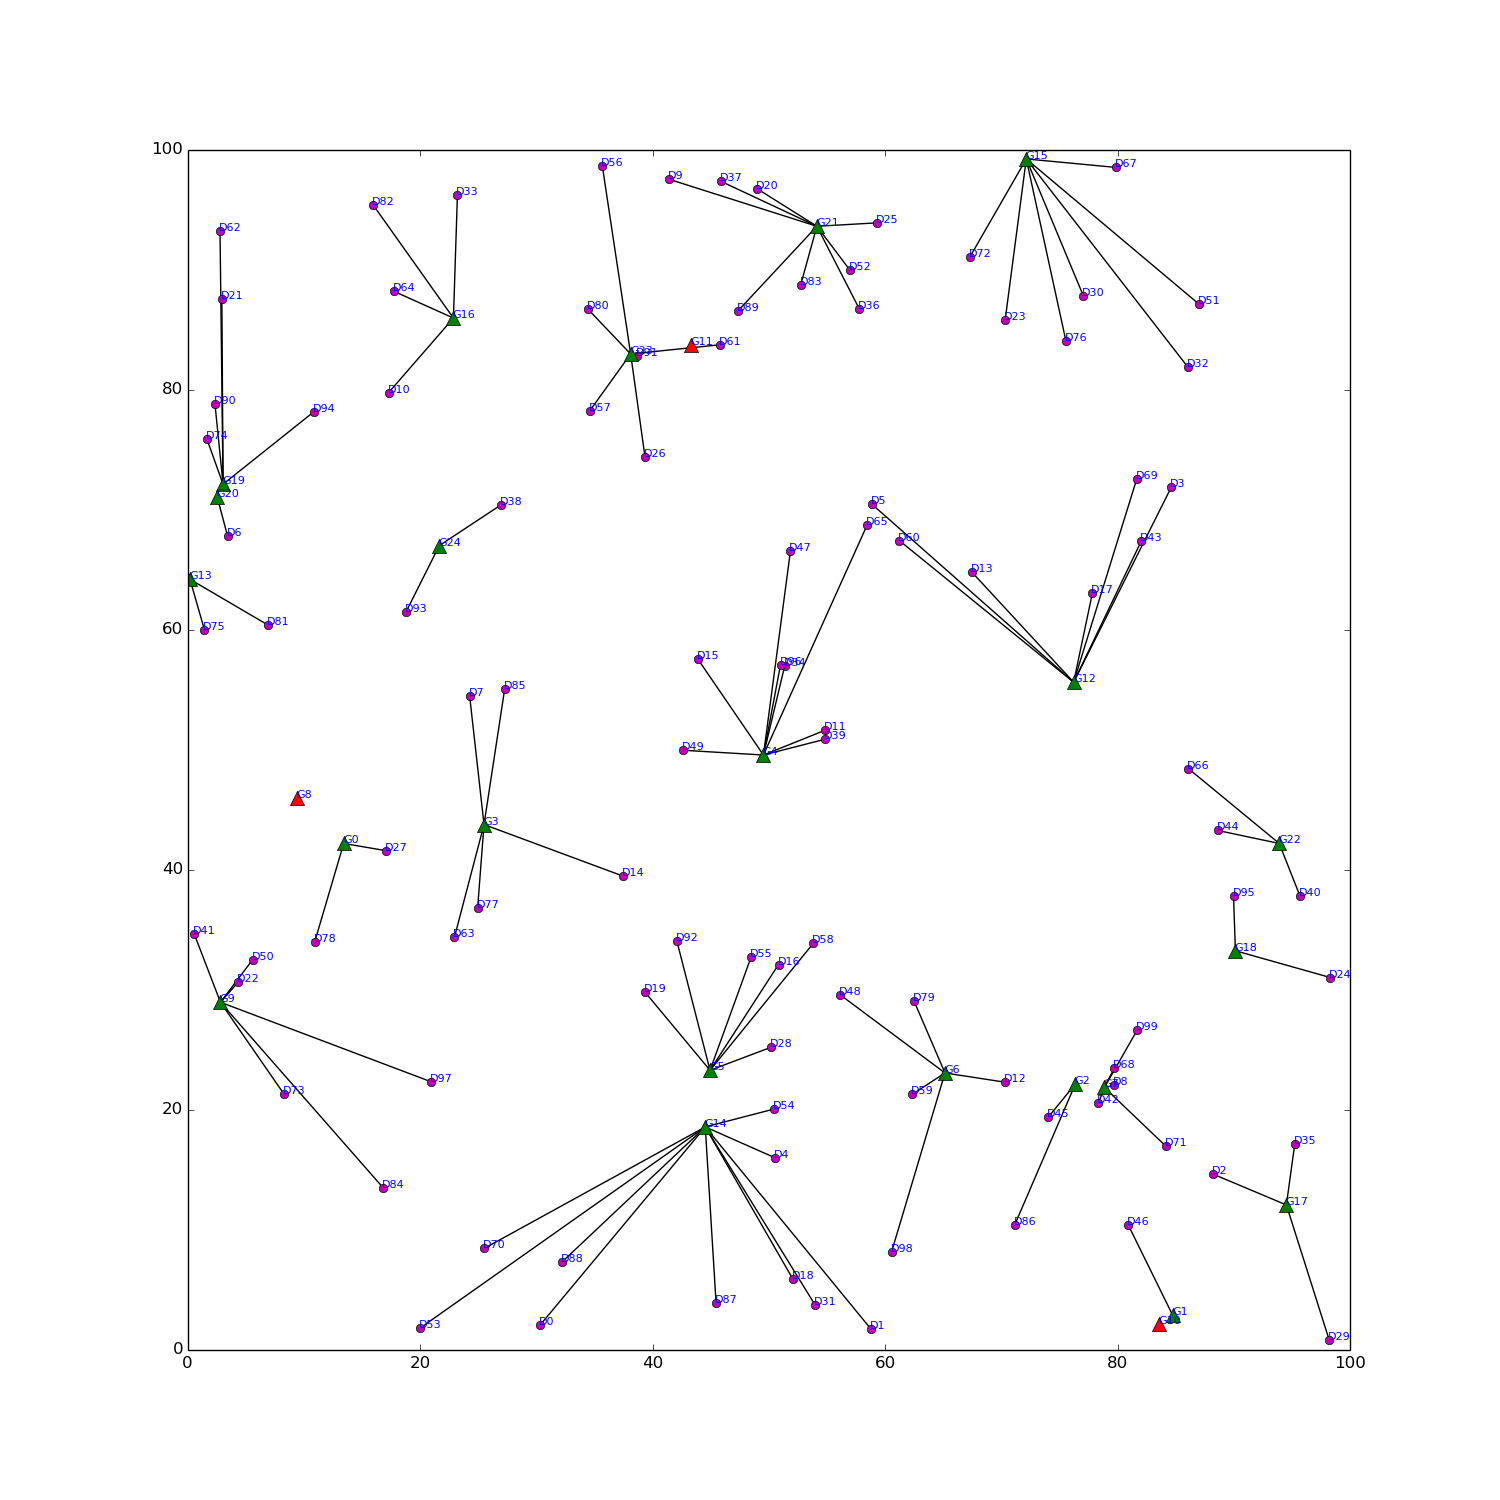
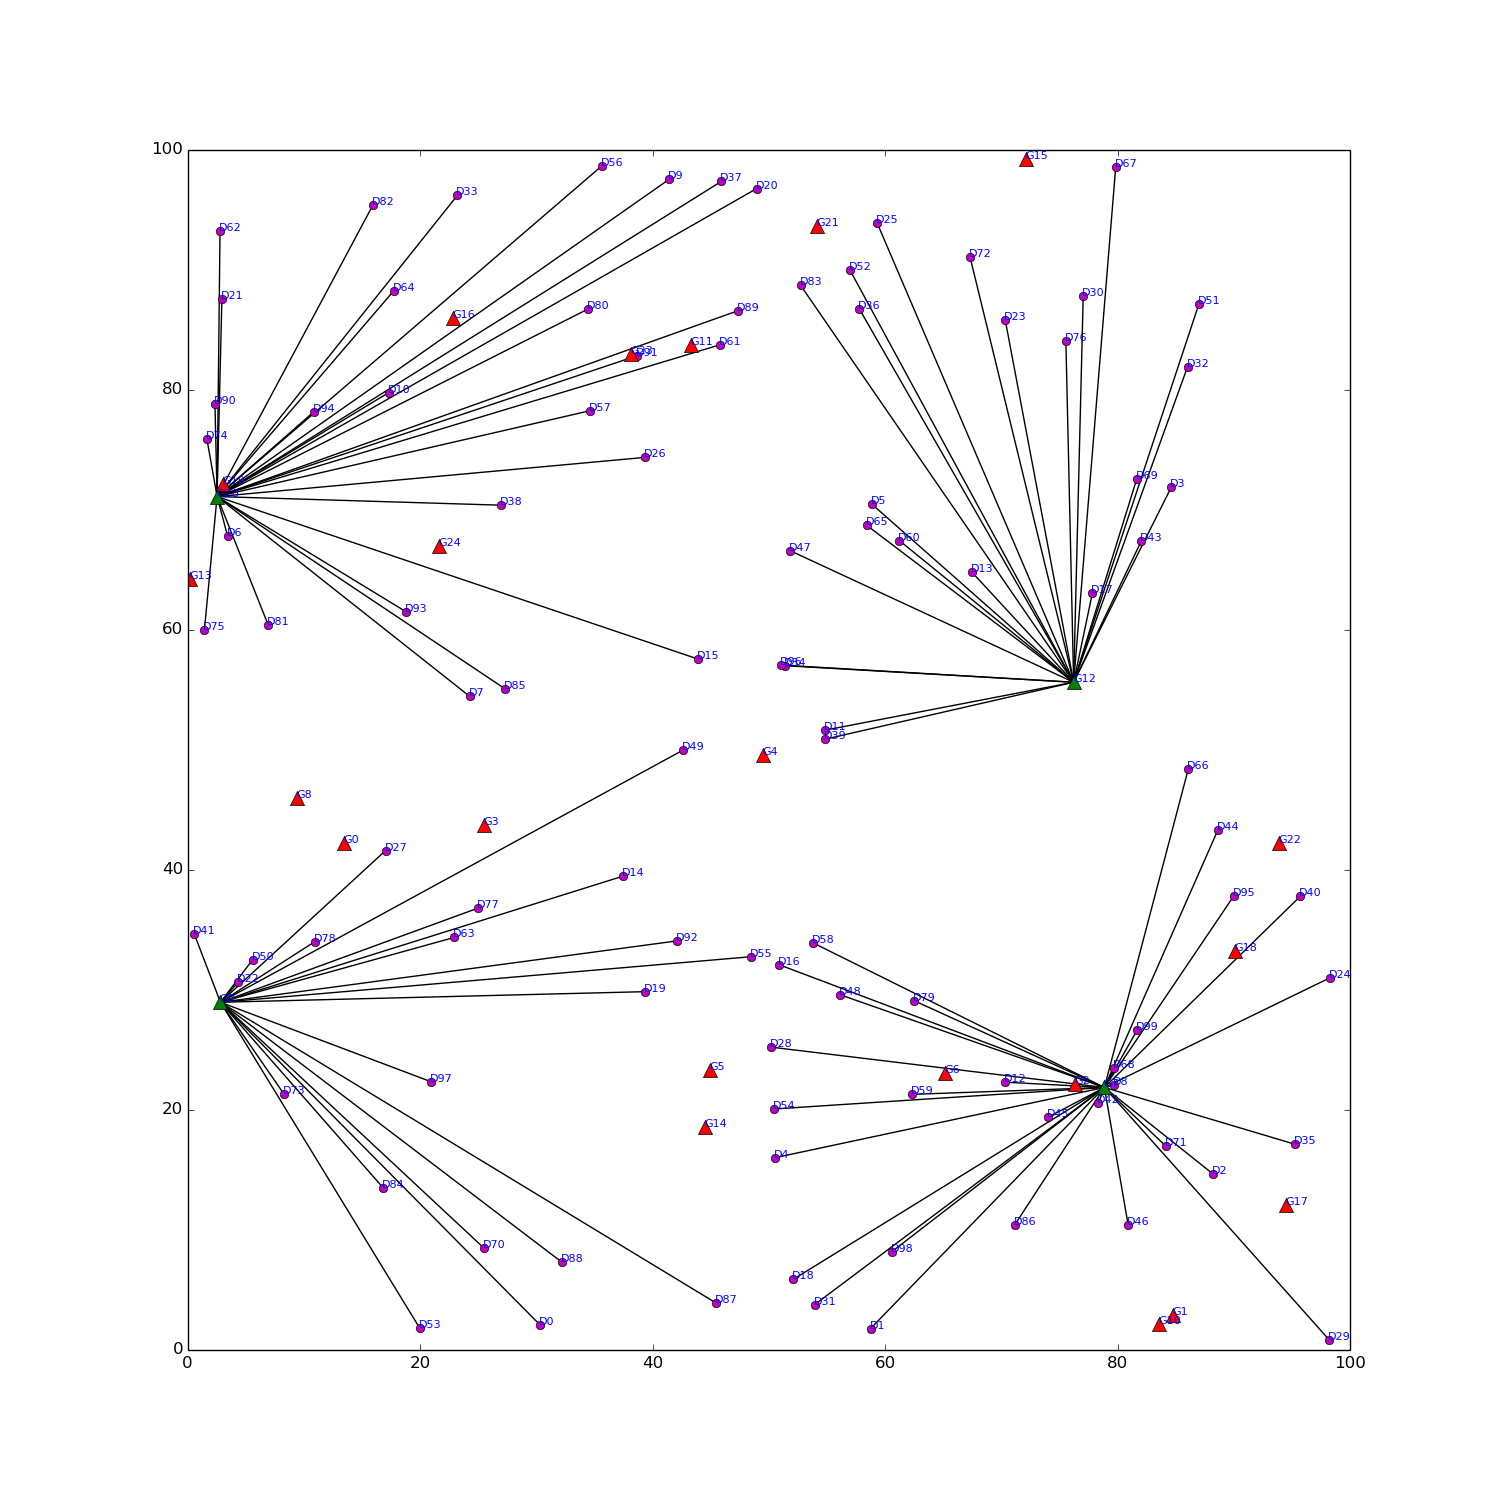
devices connected to generators w lowest cost opening

diff --git a/TP2/local-search/solve.py b/TP2/local-search/solve.py
@@ -47,54 +47,129 @@ class Solve:
                     self.instance.generator_coordinates[j][0],
                     self.instance.generator_coordinates[j][1])
 
+    def getZone(self, id, type):
+        coordinates = (0,0)
+        if type == 1 :
+            coordinates = self.instance.generator_coordinates[id]
+        elif type == 2 :
+            coordinates = self.instance.device_coordinates[id]
+        if (coordinates[0] >= 0 and 
+            coordinates[0] <=  50 and
+            coordinates[1] >= 50 and
+            coordinates[1] <= 100) :
+            return 1
+        elif (coordinates[0] >= 50 and
+        coordinates[0] <=  100 and
+        coordinates[1] >= 50 and
+        coordinates[1] <= 100) :
+            return 2
+        elif (coordinates[0] >= 0 and 
+        coordinates[0] <=  50 and
+        coordinates[1] >= 0 and
+        coordinates[1] <= 100) :
+            return 3
+        elif (coordinates[0] >= 50 and 
+        coordinates[0] <=  100 and
+        coordinates[1] >= 0 and
+        coordinates[1] <= 50) :
+            return 4
+
 
     def solve_localSearch(self):
         print("Solve with a local search algorithm")
-        visited_solutions = []
-
         opened_generators = [0 for _ in range(self.n_generator)]
         generators = list(range(0, self.n_generator))
         assigned_generators = [None for _ in range(self.n_device)]
         costs = {}
         #solution initiale
-        for i in range(self.n_device):
-            assigned_generators[i] = random.randint(0, self.n_generator-1)
+        zone1 = {}
+        zone2 = {}
+        zone3 = {}
+        zone4 = {}
 
-        for i in range(len(assigned_generators)) :
-            j = assigned_generators[i]
-            costs[(i, j)] = self.getDistance(i,j)
-            if not opened_generators[j]:
-                costs[(i, j)] += self.instance.opening_cost[j]
-                opened_generators[j] = 1
-        solution_cost = self.instance.get_solution_cost(assigned_generators, opened_generators)
-        for device_generator in costs:
-            neighbors = list(generators) #liste des voisins possibles
-            neighbors.pop(device_generator[1]) #on retire le voisin (generateur) dont le coût est le plus grand
-            cost = 0
-            assigned_generators[device_generator[0]] = -1
-            if device_generator[1] not in assigned_generators :
-                cost = solution_cost - self.getDistance(device_generator[0],device_generator[1]) - self.instance.opening_cost[device_generator[1]]
-                opened_generators[device_generator[1]] = 0
-            else :
-                cost = solution_cost - self.getDistance(device_generator[0],device_generator[1])
-            foundNewSolution = False
-            for j in neighbors:
-                if j not in assigned_generators :
-                    new_cost = cost + self.getDistance(device_generator[0],j) + self.instance.opening_cost[j]
-                else : 
-                    new_cost = cost + self.getDistance(device_generator[0],j)
-                if new_cost < solution_cost:
-                    foundNewSolution = True
-                    if not opened_generators[j]:
-                        costs[device_generator] = self.getDistance(device_generator[0],j) + self.instance.opening_cost[j]
-                    else : 
-                        costs[device_generator] = self.getDistance(device_generator[0],j)
-                    opened_generators[j] = 1
-                    solution_cost = new_cost
-                    assigned_generators[device_generator[0]] = j
-            if not foundNewSolution :
-                assigned_generators[device_generator[0]] = device_generator[1]
-                opened_generators[device_generator[1]] = 1
+
+        # print(self.instance.generator_coordinates)
+        for generator in generators :
+            zone = self.getZone(generator, 1)
+            if zone == 1 :
+                zone1[generator] = self.instance.opening_cost[generator]
+            elif zone == 2 :
+                zone2[generator] = self.instance.opening_cost[generator]
+            elif zone == 3 :
+                zone3[generator] = self.instance.opening_cost[generator]
+            elif zone == 4 :
+                zone4[generator] = self.instance.opening_cost[generator]
+
+
+        costs[1] = zone1
+        costs[2] = zone2
+        costs[3] = zone3
+        costs[4] = zone4
+
+            
+
+        print(zone1)
+        for i in range(self.n_device):
+            zone = self.getZone(i,2)
+            tempCost = costs.copy()
+            min_cost_gen = -1
+            if zone == 1 :
+                # for cost in tempCost[zone1] :
+                #     cost += self.getDistance(i,cost)
+                min_cost_gen = min(zone1, key=zone1.get)
+                assigned_generators[i] = min_cost_gen
+            elif zone == 2 :
+                min_cost_gen = min(zone2, key=zone2.get)
+                assigned_generators[i] = min_cost_gen
+            elif zone == 3 :
+                min_cost_gen = min(zone3, key=zone3.get)
+                assigned_generators[i] = min_cost_gen
+            elif zone == 4 :
+                min_cost_gen = min(zone4, key=zone4.get)
+                assigned_generators[i] = min_cost_gen
+            opened_generators[min_cost_gen] = 1
+            
+
+        # g = random.randint(0, self.n_generator-1)
+        # for i in range(self.n_device):
+        #     assigned_generators[i] = 
+
+
+
+
+        # for device_generator in costs:
+        #     neighbors = list(generators) #liste des voisins possibles
+        #     neighbors.pop(device_generator[1]) #on retire le voisin (generateur) dont le coût est le plus grand
+        #     cost = 0
+        #     assigned_generators[device_generator[0]] = -1
+        #     if device_generator[1] not in assigned_generators :
+        #         cost = solution_cost - self.getDistance(device_generator[0],device_generator[1]) - self.instance.opening_cost[device_generator[1]]
+        #         opened_generators[device_generator[1]] = 0
+        #     else :
+        #         cost = solution_cost - self.getDistance(device_generator[0],device_generator[1])
+        #     foundNewSolution = False
+        #     for j in neighbors:
+        #         if j not in assigned_generators :
+        #             new_cost = cost + self.getDistance(device_generator[0],j) + self.instance.opening_cost[j]
+        #         else : 
+        #             new_cost = cost + self.getDistance(device_generator[0],j)
+        #         # print("new cost possible", new_cost)
+        #         if new_cost < solution_cost:
+                    
+        #             foundNewSolution = True
+        #             if not opened_generators[j]:
+        #                 costs[device_generator] = self.getDistance(device_generator[0],j) + self.instance.opening_cost[j]
+        #             else : 
+        #                 costs[device_generator] = self.getDistance(device_generator[0],j)
+        #             opened_generators[j] = 1
+        #             solution_cost = new_cost
+        #             # print("solution choisie", solution_cost)
+
+        #             assigned_generators[device_generator[0]] = j
+        #     if not foundNewSolution :
+        #         assigned_generators[device_generator[0]] = device_generator[1]
+        #         opened_generators[device_generator[1]] = 1
+            
 
         self.instance.solution_checker(assigned_generators, opened_generators)
         total_cost = self.instance.get_solution_cost(assigned_generators, opened_generators)
